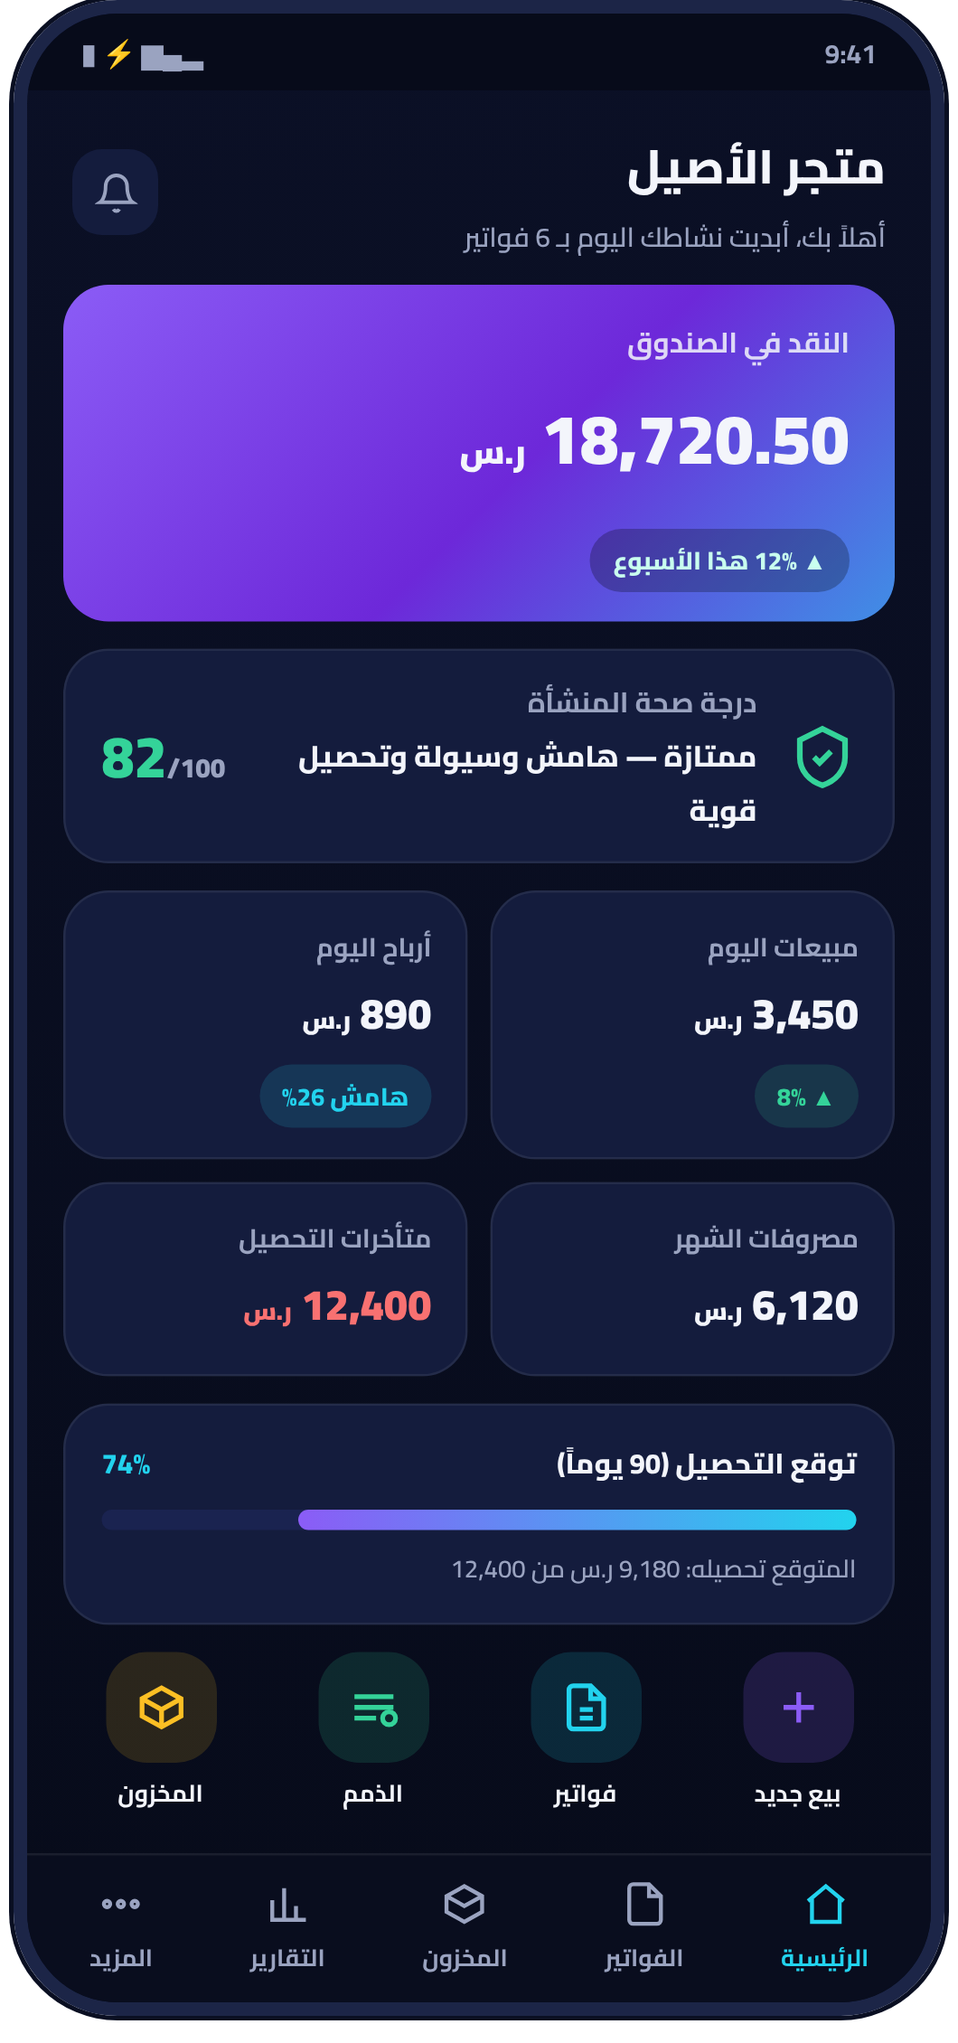
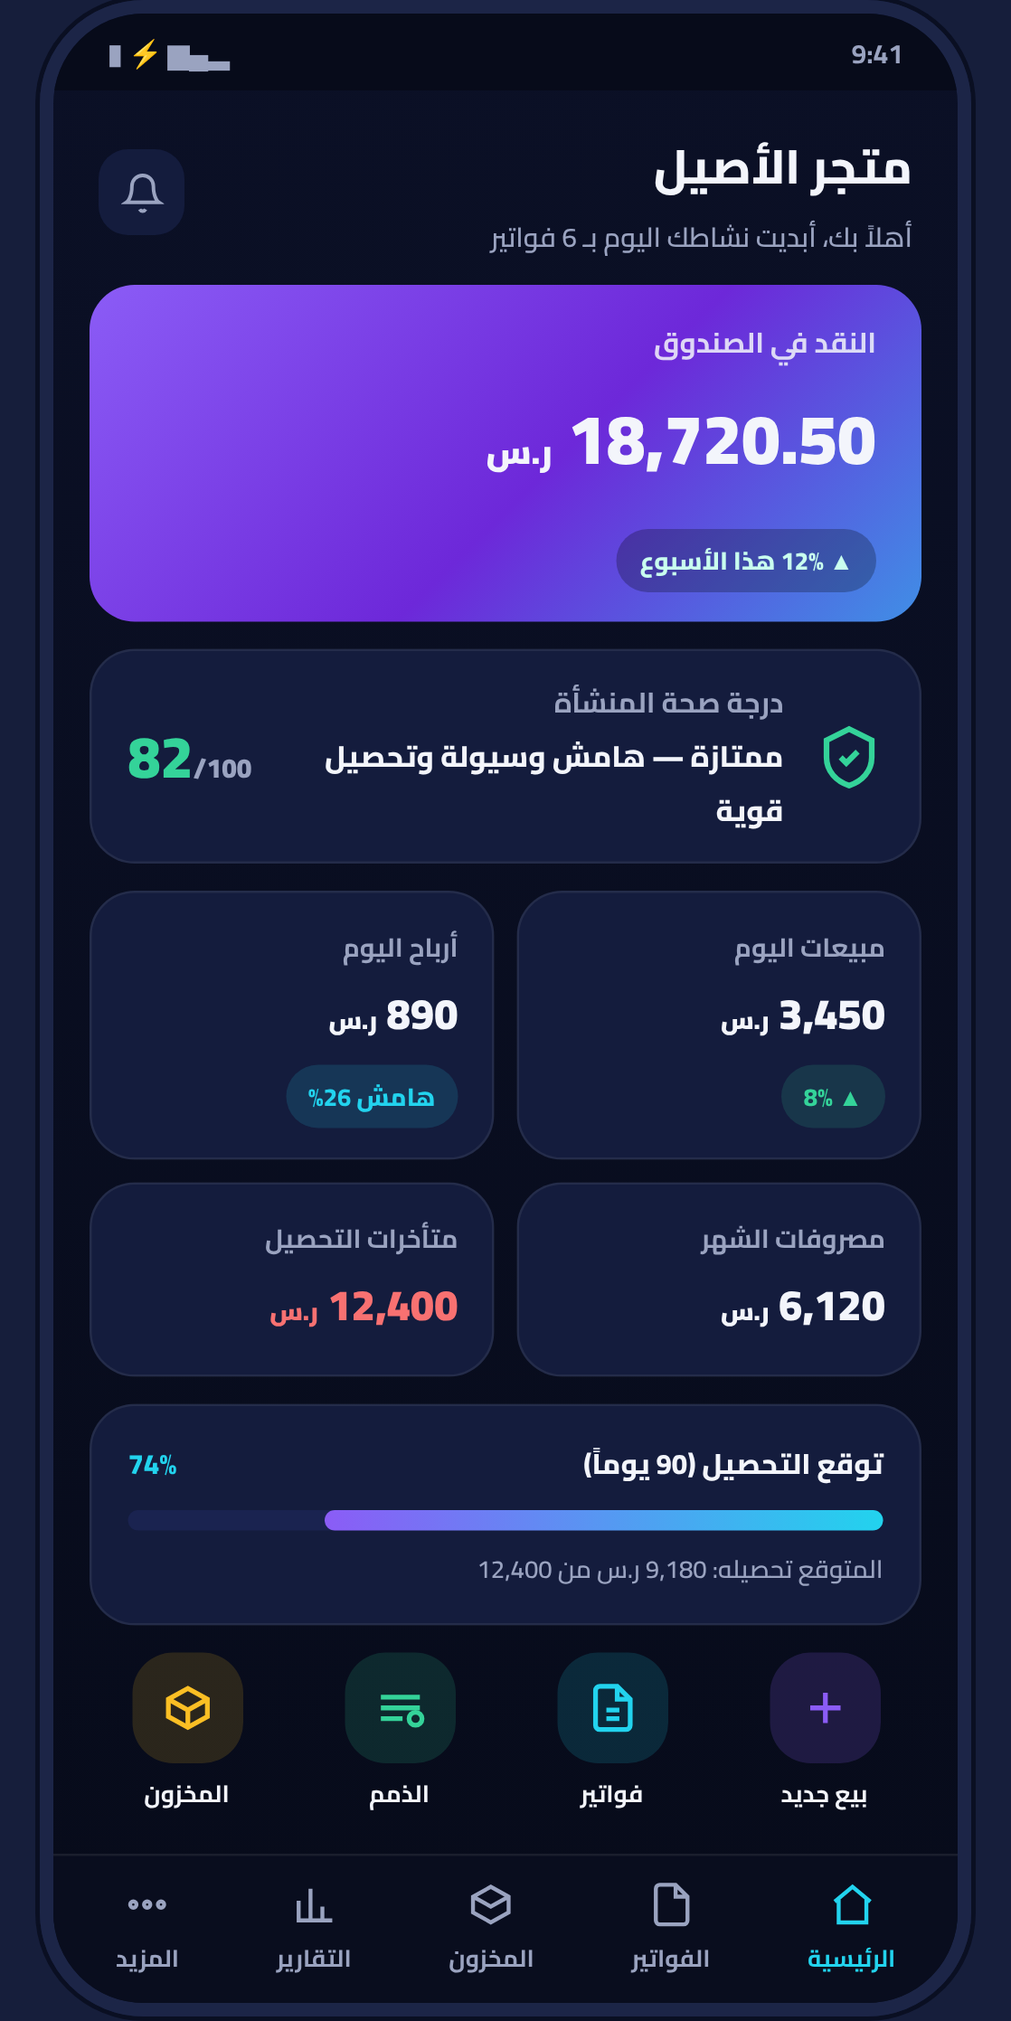
docs(store): complete Play Console submission package for V 1.0.0
- STORE_LISTING_ASO.md: claims re-verified against actual V 1.0.0 features
  (fixed stale 2.0 refs, price-tags/POs/trial-balance claims), contact email
  + privacy policy URL added, final asset specs table
- NEW PLAY_CONSOLE_SUBMISSION.md: full Console walkthrough — listing fields,
  IARC rating, data safety, 18+ audience, free+IAP (superbiz_pro), Play App
  Signing recommendation (single cert across Play/GitHub), pre-launch checklist
- store_assets: banner fixed + resized to exact 1024x500 (was stale v4.7.0/
  314-tests + 2304x1152), 4 screenshots re-exported 1118x2235 RGB 2:1
  (was 1060x2260 RGBA 2.13:1), NEW icon_512.png rendered from the actual
  adaptive icon vector layers

Changed region(s): [[0.0, 0.0, 1.0, 1.0], [0.467, 0.2161, 0.5604, 0.247]]

diff --git a/docs/PLAY_CONSOLE_SUBMISSION.md b/docs/PLAY_CONSOLE_SUBMISSION.md
@@ -1,0 +1,110 @@
+# دليل إرسال SuperBiz إلى Google Play — V 1.0.0 (جاهز للتنفيذ)
+
+> هذا الدليل يغطي **كل حقل** يطلبه Play Console لإطلاق الإنتاج مع تذييل الإصدار الأول.
+> النصوص الجاهزة للنسخ (عربي + إنجليزي) في [`docs/STORE_LISTING_ASO.md`](STORE_LISTING_ASO.md)،
+> وإجابات أمان البيانات الحرفية في [`docs/PLAY_DATA_SAFETY.md`](PLAY_DATA_SAFETY.md)،
+> وسياسة الخصوصية العامة في [`docs/ops/PRIVACY_POLICY_PUBLIC.html`](ops/PRIVACY_POLICY_PUBLIC.html).
+
+## ١) تفاصيل المتجر الرئيسية (Main store listing)
+
+| الحقل | القيمة | المصدر |
+|---|---|---|
+| اسم التطبيق (ar-SA) | SuperBiz — نقطة بيع وفواتير (28/30 حرفاً) | ASO §العربية |
+| الوصف القصير (ar-SA) | نقطة بيع ومخزون وذمم وفواتير ضريبية ZATCA — يعمل بدون إنترنت 100٪ | ASO |
+| الوصف الكامل (ar-SA) | انسخ حرفياً من ASO (مراجع مقابل ميزات V 1.0.0) | ASO |
+| App title (en-US) | SuperBiz — POS & Invoices (25/30) | ASO §English |
+| Short description (en-US) | Offline-first POS, inventory, debts & ZATCA tax invoices — 100% no internet | ASO |
+| Full description (en-US) | انسخ حرفياً من ASO | ASO |
+| بريد التواصل | **cto.drs@gmail.com** | مالك المشروع |
+| سياسة الخصوصية (رابط إلزامي) | `https://github.com/CTO-DRS/SuperBiz/blob/main/docs/ops/PRIVACY_POLICY_PUBLIC.html` | المستودع العام |
+| موقع ويب (اختياري) | يمكن تركه فارغاً في الموجة 1 | — |
+
+## ٢) الأصول الرسومية (كلها جاهزة في `docs/store_assets/`)
+
+| الأصل | الملف | المقاس | الحد الأدنى المطلوب |
+|---|---|---|---|
+| أيقونة التطبيق | `icon_512.png` | 512×512 | 512×512 32-bit PNG |
+| الصورة المميزة | `banner.png` | 1024×500 بالضبط | 1024×500 |
+| لقطات الهاتف | `screen_home.png` · `screen_pos.png` · `screen_debts.png` · `screen_reports.png` | 1118×2235 (2:1) | 2 على الأقل، ضلع أكبر ≤ 2× الأصغر، بلا شفافية |
+
+ترتيب اللقطات المقترح في الصفحة: الرئيسية (القيمة الكاملة) ← نقطة البيع ← الذمم ← التقارير.
+الفيديو الترويجي: مؤجل إلى W2 ولا يحجب النشر.
+
+## ٣) الفئة والوسوم
+
+- **الفئة:** الأعمال (Business) — الأنسب لتطبيق إدارة أعمال/نقطة بيع.
+- **الوسوم:** إدارة أعمال، نقطة بيع، فواتير (اختر 5 وسوم متاحة في Console القريبة من: Business, Finance, Productivity).
+
+## ٤) تصنيف المحتوى (IARC) — إجابات الموجة 1
+
+| السؤال | الإجابة |
+|---|---|
+| هل يحتوي على عنف/جنس/لغة بذيئة/مخدرات؟ | لا في جميع البنود |
+| هل يعرض شراء/رهان/مسابقات بأموال حقيقية؟ | لا (المال داخل التطبيق محاسبي فقط) |
+| هل يشارك الموقع الجغرافي مع مستخدمين آخرين؟ | لا |
+| هل يشتري المستخدم سلعاً/خدمات رقمية داخل التطبيق؟ | **نعم** (شراء Pro لمرة واحدة) — يؤثر على التصنيف فقط باتجاه الأمان |
+| النتيجة المتوقعة | **الجميع / Everyone (3+)** |
+
+> إذا ظهر سؤال «هل يُوجَّه للأطفال؟» → لا؛ والجمهور المستهدف (بند ٦) 18+.
+
+## ٥) أمان البيانات (Data Safety)
+
+انسخ الإجابات الحرفية من [`docs/PLAY_DATA_SAFETY.md`](PLAY_DATA_SAFETY.md) — خلاصتها:
+
+1. هل يجمع التطبيق بيانات أو يشاركها؟ **لا** (لا تتبع، لا تحليلات خارجية، لا إعلانات).
+2. المشاركة مع أطراف ثالثة؟ **لا** — الصادر الاختياري فقط: SMTP الخاص بالمستخدم، طابعة البلوتوث، Play Billing.
+3. التشفير أثناء النقل: غير منطبق (لا نقل بيانات مستخدم إلى خوادم).
+4. أداة حذف البيانات: حذف التطبيق أو أدوات المسح الداخلية — البيانات محلية أصلاً.
+5. الفئة الوحيدة المُجمَّعة: «بيانات الشراء» عبر Play Billing — اختيارية (ميزة Pro)، لا تُشارك، لأغراض الفواتير داخل التطبيق فقط.
+
+## ٦) الجمهور المستهدف والإعلانات
+
+- الفئة العمرية المستهدفة: **18 سنة فأكثر** (أصحاب أعمال) — لا يوجَّه للأطفال.
+- إعلانات: **لا يحتوي إعلانات**.
+- جمع بيانات الأطفال: لا ينطبق.
+
+## ٧) التسعير والتوافر
+
+- **مجاني** مع شراء داخل التطبيق (In-app products).
+- الدول: ابدأ بـ **السعودية** ثم وسّع (خليج + عالمي عربي/إنجليزي) بعد أول أسبوع ثبات.
+- منتج داخل التطبيق (أنشئه في Play Console → Monetize → Products):
+
+| الحقل | القيمة |
+|---|---|
+| Product ID | `superbiz_pro` (يجب مطابقته حرفياً — معرّفه في `ProEntitlement.kt`) |
+| النوع | In-app (شراء لمرة واحدة، بلا اشتراك) |
+| الاسم | SuperBiz Pro |
+| الوصف | لوحة مؤشرات KPI وميزات Pro — شراء واحد |
+
+> ملاحظة: ميزات Pro في V 1.0.0 = لوحة KPIs. حدّد سعراً منخفضاً للموجة 1 (مثلاً 9.99 ر.س) وقابلاً للرفع لاحقاً.
+
+## ٨) توقيع التطبيق (Play App Signing) — قراءة إلزامية
+
+عند أول رفع AAB سيطلب Console تفعيل Play App Signing (إلزامي للتطبيقات الجديدة). الخياران:
+
+| الخيار | الآلية | الأثر |
+|---|---|---|
+| **أ (موصى به هنا)** | «Export and upload a key from Java keystore» — استخدم `superbiz.keystore` نفسه كمفتاح توقيع التطبيق عبر أداة PEPK | نسخة Play ونسخة GitHub (APK المرفق بالإصدار) بنفس الشهادة — الترقية متبادلة بينهما بلا إلغاء تثبيت |
+| ب (الافتراضي) | Play يولّد مفتاح توقيع التطبيق، ويصبح `superbiz.keystore` مفتاح **رفع** فقط | نسخة Play بشهادة مختلفة عن نسخة GitHub — من ثبّت من GitHub لن يستطيع الترقية من Play إلا بعد إزالة التثبيت |
+
+> التوصية: الخيار **أ** حفاظاً على وحدة شهادة التوقيع (`SHA256: 04ad9be1…e3109`) بين قناتي التوزيع.
+> احتفظ بـ `superbiz.keystore` وكلماته في مكان آمن بلا اتصال — فقدانه يعني تعذّر أي تحديث.
+
+## ٩) رفع الحزمة وإعلان الـ SDK
+
+- ارفع **`app-release.aab`** من [إصدار V 1.0.0](https://github.com/CTO-DRS/SuperBiz/releases/tag/v1.0.0) (موقّع بشهادة SuperBiz — VERIFIED v2).
+- إعلان «إصدار Android المستهدف» = **36** (targetSdk 36 — يطابق الكود).
+- إعلان الأجهزة: هواتف فقط في الموجة 1 (لا Tablets مخصصة بعد).
+
+## ١٠) قائمة الفحص النهائية قبل الضغط على «بدء النشر في الإنتاج»
+
+- [ ] العنوانان والوصفان (عربي + إنجليزي) ملصقان من ASO بلا تعديل يدوي
+- [ ] الأيقونة 512 + الصورة المميزة 1024×500 + 4 لقطات مرفوعة وتظهر بلا اقتصاص
+- [ ] بريد التواصل `cto.drs@gmail.com` + رابط سياسة الخصوصية يعمل في متصفح متخفي
+- [ ] تصنيف المحتوى مكتمل → Everyone
+- [ ] أمان البيانات مكتمل كما في البند ٥
+- [ ] الجمهور 18+ · بلا إعلانات
+- [ ] السعر: مجاني + منتج `superbiz_pro` مُنشأ ونشِط
+- [ ] Play App Signing عبر الخيار (أ) — الشهادة موحدة
+- [ ] AAB مرفوع ونجحت فحص ما قبل الإطلاق (Pre-launch report لاحقاً)
+- [ ] ملاحظات الإصدار (What's new) — عربي/إنجليزي: «الإصدار الرسمي الأول V 1.0.0»

diff --git a/docs/STORE_LISTING_ASO.md b/docs/STORE_LISTING_ASO.md
@@ -1,8 +1,12 @@
 # ASO — نصوص متجر Google Play ثنائية اللغة (V 1.0.0)
 
-> عناوين ووصف محسّنان للاكتشاف ASO (الكلمات المفتاحية الطبيعية: نظام نقاط
-> بيع، فواتير ضريبية، مخزون، ذمم، ZATCA، أوفلاين، مجاني) — انسخها حرفياً في
-> Play Console، وحافظ على تكرار طبيعي غير مخالف للسياسة (بدون حشو).
+> عناوين ووصف محسّنان للاكتشاف ASO — انسخها حرفياً في Play Console، وحافظ على
+> تكرار طبيعي غير مخالف للسياسة (بدون حشو).
+>
+> **بيانات ثابتة للصفحة:** بريد التواصل: `cto.drs@gmail.com` · سياسة الخصوصية:
+> <https://github.com/CTO-DRS/SuperBiz/blob/main/docs/ops/PRIVACY_POLICY_PUBLIC.html>
+>
+> تمت مراجعة كل بند أدناه مقابل ميزات V 1.0.0 الفعلية (1444 اختباراً أخضر) — بلا ادعاءات قديمة.
 
 ## العربية (ar-SA افتراضي)
 
@@ -21,15 +25,15 @@ SuperBiz — نقطة بيع وفواتير
 SuperBiz — نظام إدارة الأعمال المتكامل لأصحاب المتاجر والمشاريع الصغيرة في السعودية. كل شيء يعمل بدون إنترنت 100٪ — بياناتك على جهازك فقط، ولا انتظار لشاشة تحميل.
 
 ✔ نقطة بيع (POS) سريعة: باركود، بيع سريع، إيصال حراري بلوتوث
-✔ فواتير ضريبية: QR ضريبي ZATCA مرحلة-1، إقرار ضريبي، XML جاهز للمشاركة
-✔ مخزون ذكي: تنبيه نقص، ملصقات أسعار، جرد، أوامر شراء مقترحة
+✔ فواتير ضريبية: QR ضريبي ZATCA مرحلة-1، تقرير ضريبي دوري، تصدير XML قانوني كامل البنود
+✔ مخزون ذكي: تنبيه نقص المخزون، مسح باركود، أرشفة منتجات، تحليلات ذكية
 ✔ ذمم وحسابات: مدين/دائن، أقساط، شيكات، كشف حساب PDF احترافي (50 قالباً)
-✔ تقارير: أرباح، أفضل العملاء والمنتجات، تدفق نقدي، ميزان مراجعة
+✔ تقارير: مبيعات وأرباح، تدفق نقدي، ضريبة دورية، رسوم بيانية، تصدير XLSX وCSV
 ✔ ولاء وكوبونات: نقاط عملاء وخصومات داخل المعاملة
 ✔ أمان: قفل برمز أو بصمة، إخفاء المبالغ، نسخ احتياطي واستعادة كامل
-✔ ذكاء محلي: تنبؤات وتوصيات تعمل على الجهاز بلا إنترنت
+✔ ذكاء محلي: أكثر من 40 خوارزمية تحليلية (تنبؤ، أعمار ذمم، رصد شواذ) بلا إنترنت
 ✔ عربي أولاً: واجهة RTL كاملة + إنجليزي، أرقام واضحة في كل اللغات
-✔ NEW في 2.0: SuperBiz Pro — لوحة مؤشرات KPI بأهداف شهرية وإيقاع حقيقي
+✔ SuperBiz Pro (شراء واحد اختياري): لوحة مؤشرات KPI — مبيعات/ربح/مصروفات/متأخر مقابل أهداف شهرية
 
 مجاني بالكامل للأساسيات. ميزات Pro الإضافية بشراء واحد (بلا اشتراك شهري).
 
@@ -56,21 +60,28 @@ Offline-first POS, inventory, debts & ZATCA tax invoices — 100% no internet
 SuperBiz — the complete business manager for shops and small businesses in Saudi Arabia. Everything works 100% offline — your data stays on your device, no loading screens.
 
 ✔ Fast POS: barcode scanning, quick sale, Bluetooth thermal receipts
-✔ Tax invoices: ZATCA phase-1 QR, tax return helper, shareable XML
-✔ Smart inventory: low-stock alerts, price tags, stock count, suggested POs
+✔ Tax invoices: ZATCA phase-1 QR, periodic tax report, full legal XML export
+✔ Smart inventory: low-stock alerts, barcode scanning, product archiving, smart analytics
 ✔ Debts & accounting: receivables/payables, installments, checks, pro PDF statements (50 templates)
-✔ Reports: profit, top customers & products, cash flow, trial balance
+✔ Reports: sales & profit, cash flow, periodic tax, charts, XLSX & CSV export
 ✔ Loyalty & coupons: points and discounts inside the transaction
 ✔ Security: PIN/biometric lock, amount privacy, full backup & restore
-✔ On-device intelligence: forecasts and suggestions with zero internet
+✔ On-device intelligence: 40+ analytics algorithms (forecasting, receivables aging, outliers) with zero internet
 ✔ Arabic-first: full RTL UI + English, clear numerals everywhere
-✔ NEW in 2.0: SuperBiz Pro — a KPI board with monthly targets and real pace
+✔ SuperBiz Pro (optional one-time purchase): KPI board — sales/profit/expenses/receivables vs monthly targets
 
 Core features are free forever. Extra Pro features are one single purchase (no subscription).
 
 Who is it for? Grocery, retail, electronics, services, distributors — any business that needs an organized cashbox and controlled debts without internet.
 ```
 
-## ملاحظات رسومية (تُنقل إلى Runbook)
-- أيقونة/بانر/لقطات: `docs/store_assets/` (بانر 1024×500 + لقطات جهاز حقيقية)
-- الفيديو الترويجي: اختياري للموجة 1 — مؤجل إلى W2 (لا يحجب النشر)
+## ملاحظات رسومية — الأصول النهائية الجاهزة للرفع
+
+| الأصل | الملف | المقاس | متطلبات Play |
+|---|---|---|---|
+| أيقونة التطبيق | `icon_512.png` | 512×512 | 32-bit PNG، مولّدة من طبقات الأيقونة الفعلية |
+| الصورة المميزة | `banner.png` | **1024×500 بالضبط** | مُصححة: V 1.0.0 · versionCode 1 · 1444 اختباراً |
+| لقطات الهاتف ×4 | `screen_home/pos/debts/reports.png` | 1118×2235 (2:1 بالضبط) | RGB بلا شفافية، الحد الأقصى ≤ 2× |
+
+> الأصول الأصلية (بانر قديم بنصوص v4.7.0/314 اختباراً ولقطات 2.13:1 بشفافية) استُبدلت — التاريخ يحفظها في git.
+> الفيديو الترويجي: اختياري للموجة 1 — مؤجل إلى W2 (لا يحجب النشر).
